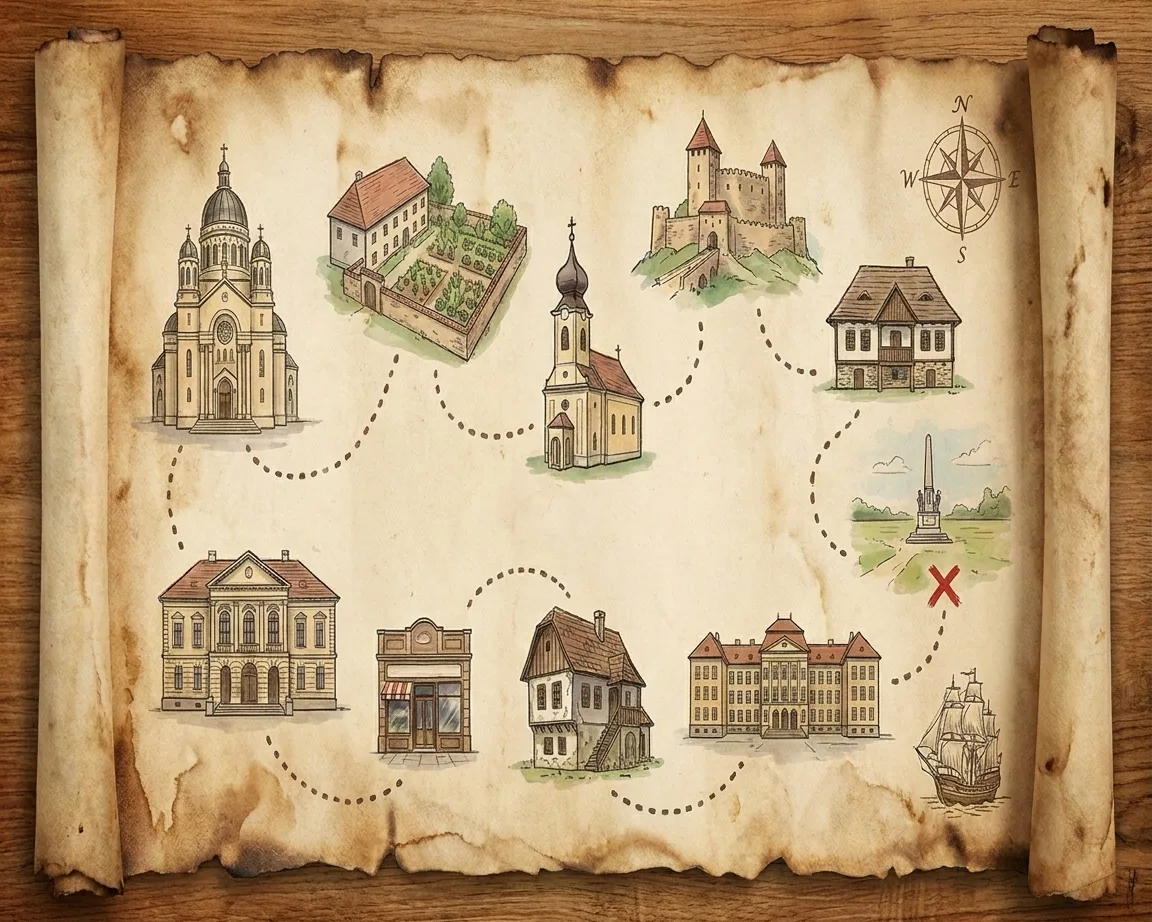
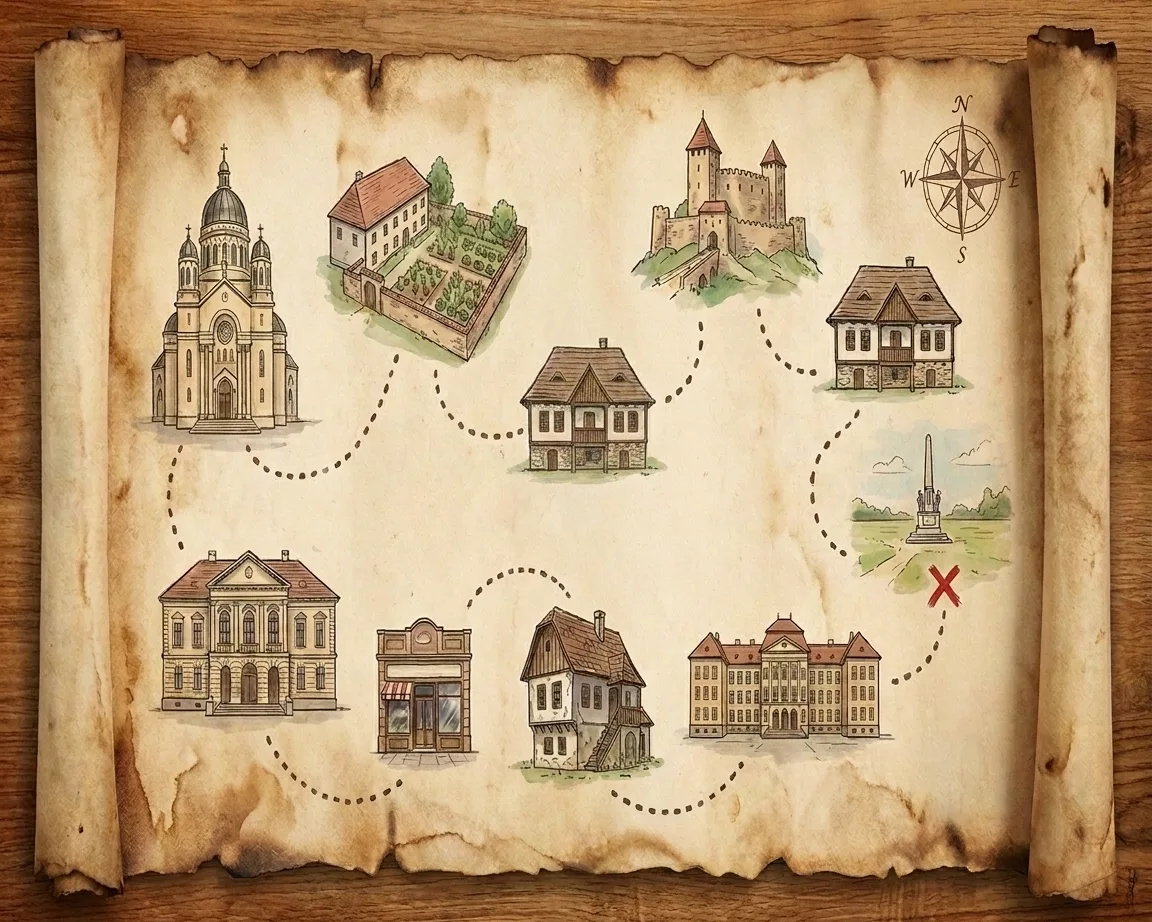
The Blajhunt's artwork lands: card and landing panel
The 3:4 thumbnail went into poze-org and, four minutes later, the landing
panel's source was replaced too. Both regenerated from one illustration - a
treasure map of Blaj landmarks on parchment, dotted route, red X - so / and
/ateliere now introduce the hunt with the same image instead of two unrelated
ones.

The second file was not mentioned; npm run photos rebuilds both trees and the
landing panel's output changing size is what gave it away.

STOCK is empty for the third time in a week and imagePlaceholder is unused on
every card again, so "foto in curand" appears nowhere on the site. The flag and
the UI that reads it stay, for the next gap.

The gold accent picked an hour ago for a mechanical reason - the ten workshops
run sky/gold from A2, so the card in front of them had to be gold - happens to
match the parchment.

Claude-Session: https://claude.ai/code/session_014cWXthiKJGR1ysEVvMzkWJ

diff --git a/scripts/photos.js b/scripts/photos.js
@@ -237,9 +237,9 @@ const RAW = [
  * a backdrop still is, because a stage where most slides fade to a soft field
  * and one snaps into a sharp photograph reads as a bug.
  *
- * In use for the Blajhunt only. It held A7 until 8 Sep and A8/A10/A11 for six
- * hours on 14 Sep; the ten workshops are all settled artwork now, and the hunt
- * is waiting on a 3:4 thumbnail the same way they were.
+ * EMPTY, for the third time in a week. It held A7 until 8 Sep, A8/A10/A11 for
+ * six hours on 14 Sep, and the Blajhunt for about an hour that evening. All
+ * eleven cards on the strip are settled artwork from poze-org.
  *
  * TO USE IT: add { slug, src } naming a file already in public/ateliere/ (the
  * 1.jpg-6.jpg stock frames are kept there for exactly this) and set
@@ -249,11 +249,7 @@ const RAW = [
  * over this list anyway, so a leftover line would be dead config that nothing
  * warns about — which is why they are removed rather than left.
  */
-const STOCK = [
-  // Four friends arm in arm at sunset — "ia-ți gașca", which is the hunt's own
-  // opening line. Awaiting the user's 3:4 artwork.
-  { slug: "blajhunt", src: "3.jpg" },
-];
+const STOCK = [];
 
 /**
  * Detail-page images from the raw deliveries, in display order. Same

diff --git a/src/lib/ateliere.ts b/src/lib/ateliere.ts
@@ -546,6 +546,8 @@ export interface HuntCard {
   href: string;
   ctaLabel: string;
   image: string;
+  /** Unused since the artwork landed on 14 Sep. Kept, like `Atelier`'s, for
+   *  the next gap — the card and the strip already know how to say so. */
   imagePlaceholder?: boolean;
   accent: "sky" | "gold";
 }
@@ -563,10 +565,7 @@ export const HUNT_CARD: HuntCard = {
   // Not "Detalii" like the ten. The card leaves for a different kind of page
   // and the label is the only warning the visitor gets before it does.
   ctaLabel: "Vezi traseul",
-  // Awaiting the user's 3:4 artwork; a stock frame until then, labelled on the
-  // card. See STOCK in scripts/photos.js.
-  image: "/ateliere/3.jpg",
-  imagePlaceholder: true,
+  image: "/ateliere/blajhunt.webp",
   // Gold, which is what keeps the strip alternating: the ten below run
   // sky/gold from A2, so the card in front of them has to be gold. Changing it
   // to sky means flipping all eleven, not one.

diff --git a/SPEC.md b/SPEC.md
@@ -79,9 +79,9 @@ public/placeholder/           1.jpg 2.jpg 3.jpg — Unsplash landscapes, PLACEHO
                               is still referenced, by the Blajhunt branch panel
 public/ateliere/              <slug>.webp — the REAL workshop cards (A3), 720x960, or the
                               source's own size up to 960x1280 when it comes from poze-org.
-                              All ten are settled artwork since 14 Sep. 1.jpg-6.jpg are
-                              Unsplash stock frames, unreferenced now but kept for the next
-                              gap (see STOCK in scripts/photos.js).
+                              All eleven are settled artwork since 14 Sep, the Blajhunt's
+                              included. 1.jpg-6.jpg are Unsplash stock frames, unreferenced
+                              now but kept for the next gap (see STOCK in scripts/photos.js).
                               <slug>-bg.webp — the 120x160 backdrop tier, one per workshop.
                               <slug>-N.webp — the detail-page galleries, all ten workshops.
                               <slug>-N.webp — detail-page gallery images, native ratio, sized to
@@ -101,8 +101,8 @@ docs/                         the three .docx sources, and docs/ateliere/ — te
 
 | Piece | State |
 |---|---|
-| Landing page | one fold: marquee background — **real archive photography since 8 Sep** — title, description, and the **two branch panels** — one open, one a spine, alternating until the visitor touches anything. **Copy is the organizers' own since 14 Sep** (copy-review round trip; D15 and D16 are what it left open); the two panel photographs are still placeholder |
-| `/ateliere` | **built** — full-bleed light stage carousel, **eleven cards**: the **Blajhunt at the head as Atelier 01** (A1, `HUNT_CARD`) and then the ten workshops, numbered **01–11 — the organizers' own numbering**, which the site prints directly since the hunt joined the strip and closed the last offset. Real titles, durations, seats and hooks; ten settled thumbnails from `poze-org/`, the hunt still on a stock frame and labelled *foto în curând*. The CTA is *Detalii* → the workshop's own page, except the hunt's, which reads *Vezi traseul* and leaves for `/blajhunt`. The focused card is mirrored into the URL hash |
+| Landing page | one fold: marquee background — **real archive photography since 8 Sep** — title, description, and the **two branch panels** — one open, one a spine, alternating until the visitor touches anything. **Copy is the organizers' own since 14 Sep** (copy-review round trip; D15 and D16 are what it left open). The **Blajhunt panel got its own artwork on 14 Sep**, the same treasure-map illustration as the hunt's card so the two read as one thing; the workshops panel is still placeholder |
+| `/ateliere` | **built** — full-bleed light stage carousel, **eleven cards**: the **Blajhunt at the head as Atelier 01** (A1, `HUNT_CARD`) and then the ten workshops, numbered **01–11 — the organizers' own numbering**, which the site prints directly since the hunt joined the strip and closed the last offset. Real titles, durations, seats and hooks, and **eleven settled thumbnails** from `poze-org/` — no card is a stock frame. The CTA is *Detalii* → the workshop's own page, except the hunt's, which reads *Vezi traseul* and leaves for `/blajhunt`. The focused card is mirrored into the URL hash |
 | `/ateliere/[slug]` | **built** — the workshop sheet: photograph first, then kicker, title, tagline, hook, a ruled facts list with a Maps search link, the disabled signup control with its note, the full description, tags, a native-ratio photo strip, prev/next and a route back to the list. Two-column with a sticky photograph above lg |
 | `/blajhunt` | **built** — roadmap only: the ten stops, their points and what each hands in. No rules, no hints, no answers. Horizontal, one stop per screen, since D14 |
 | `/blajhunt-legacy` | **built, dead** — the vertical roadmap `/blajhunt` used to be, kept only so the two can still be compared. Nothing links to it; delete once nobody wants it |
@@ -1197,6 +1197,27 @@ The event is **19 September 2026** — 15 days out from 2026-09-04. Tight but fi
 ---
 
 ## 14. Changelog
+
+- **2026-09-14, later still (the hunt's artwork)** — the user dropped
+  `blajhunt - Thumbnail.jpg` into `poze-org/` and, four minutes later, replaced
+  `docs/poze-landing/blajhunt.jpg` as well. Both regenerated: a treasure-map
+  illustration of Blaj landmarks on parchment, with the dotted route and the
+  red X. `STOCK` is empty for the third time in a week and `imagePlaceholder`
+  is unused on every card again; *foto în curând* appears nowhere on the site.
+
+  The second file was not mentioned and would have been missed by taking
+  "photo replaced" at its word — `npm run photos` rebuilds both trees, and the
+  landing panel's output changing size is what gave it away. The panel and the
+  card are now the same illustration, so `/` and `/ateliere` introduce the hunt
+  with one image instead of two unrelated ones.
+
+  The gold accent chosen an hour earlier for a mechanical reason — the ten
+  workshops run sky/gold from A2, so the card in front of them had to be gold —
+  turns out to match the parchment. Keep it.
+
+  Verified: build clean; `audit.js` clean on `/` and the stage; `ink.js` all
+  pass, the hunt headline at 16.92:1 over the new field and the landing at
+  19.63:1; the card still clicks through to `/blajhunt`.
 
 - **2026-09-14, late (the Blajhunt becomes Atelier 01)** — the hunt has been
   `A1` in the organizers' numbering since the first document landed, and every
